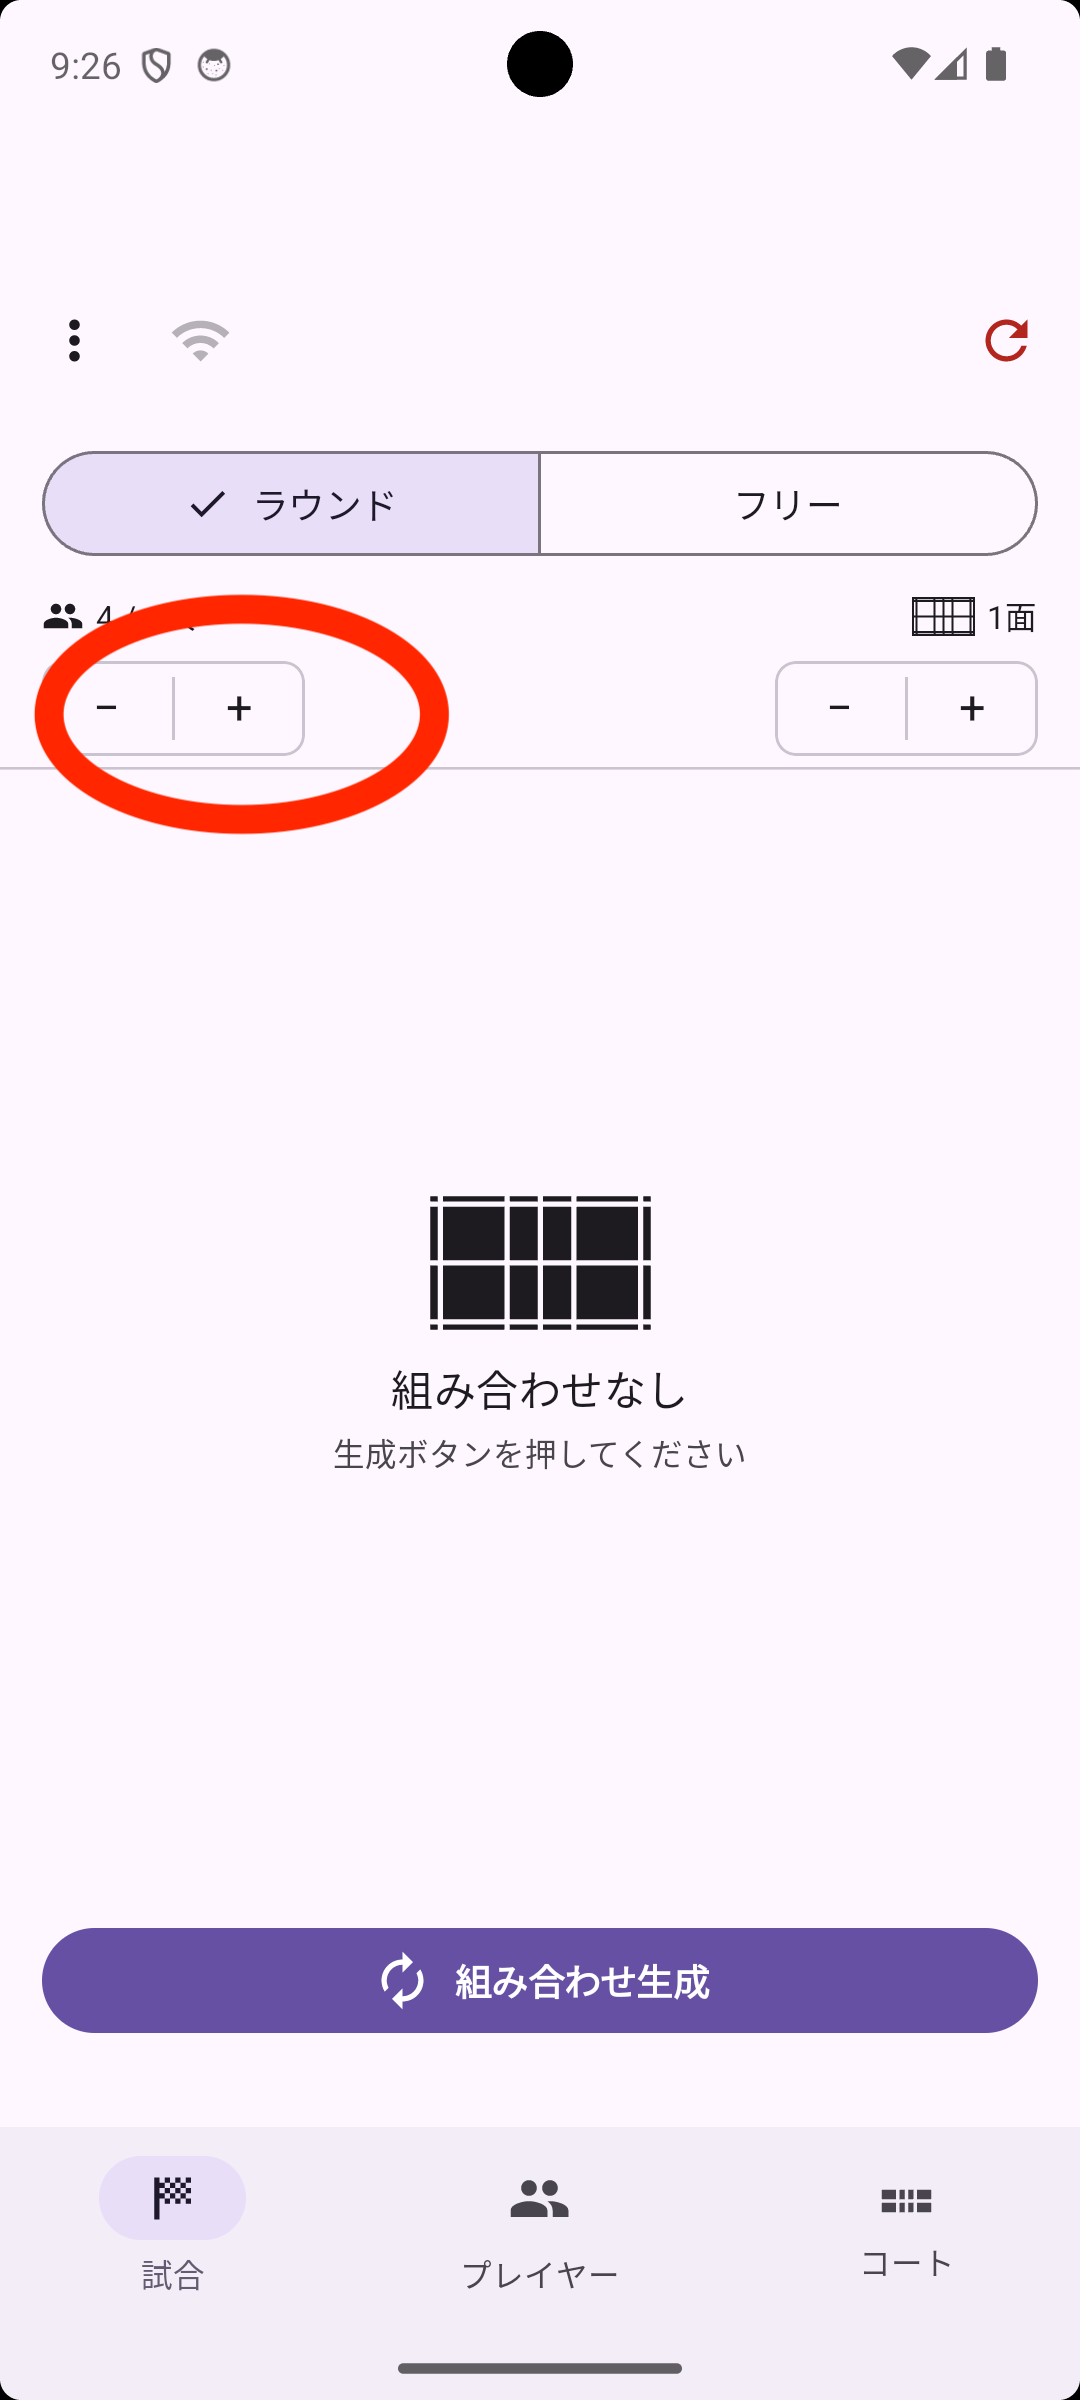
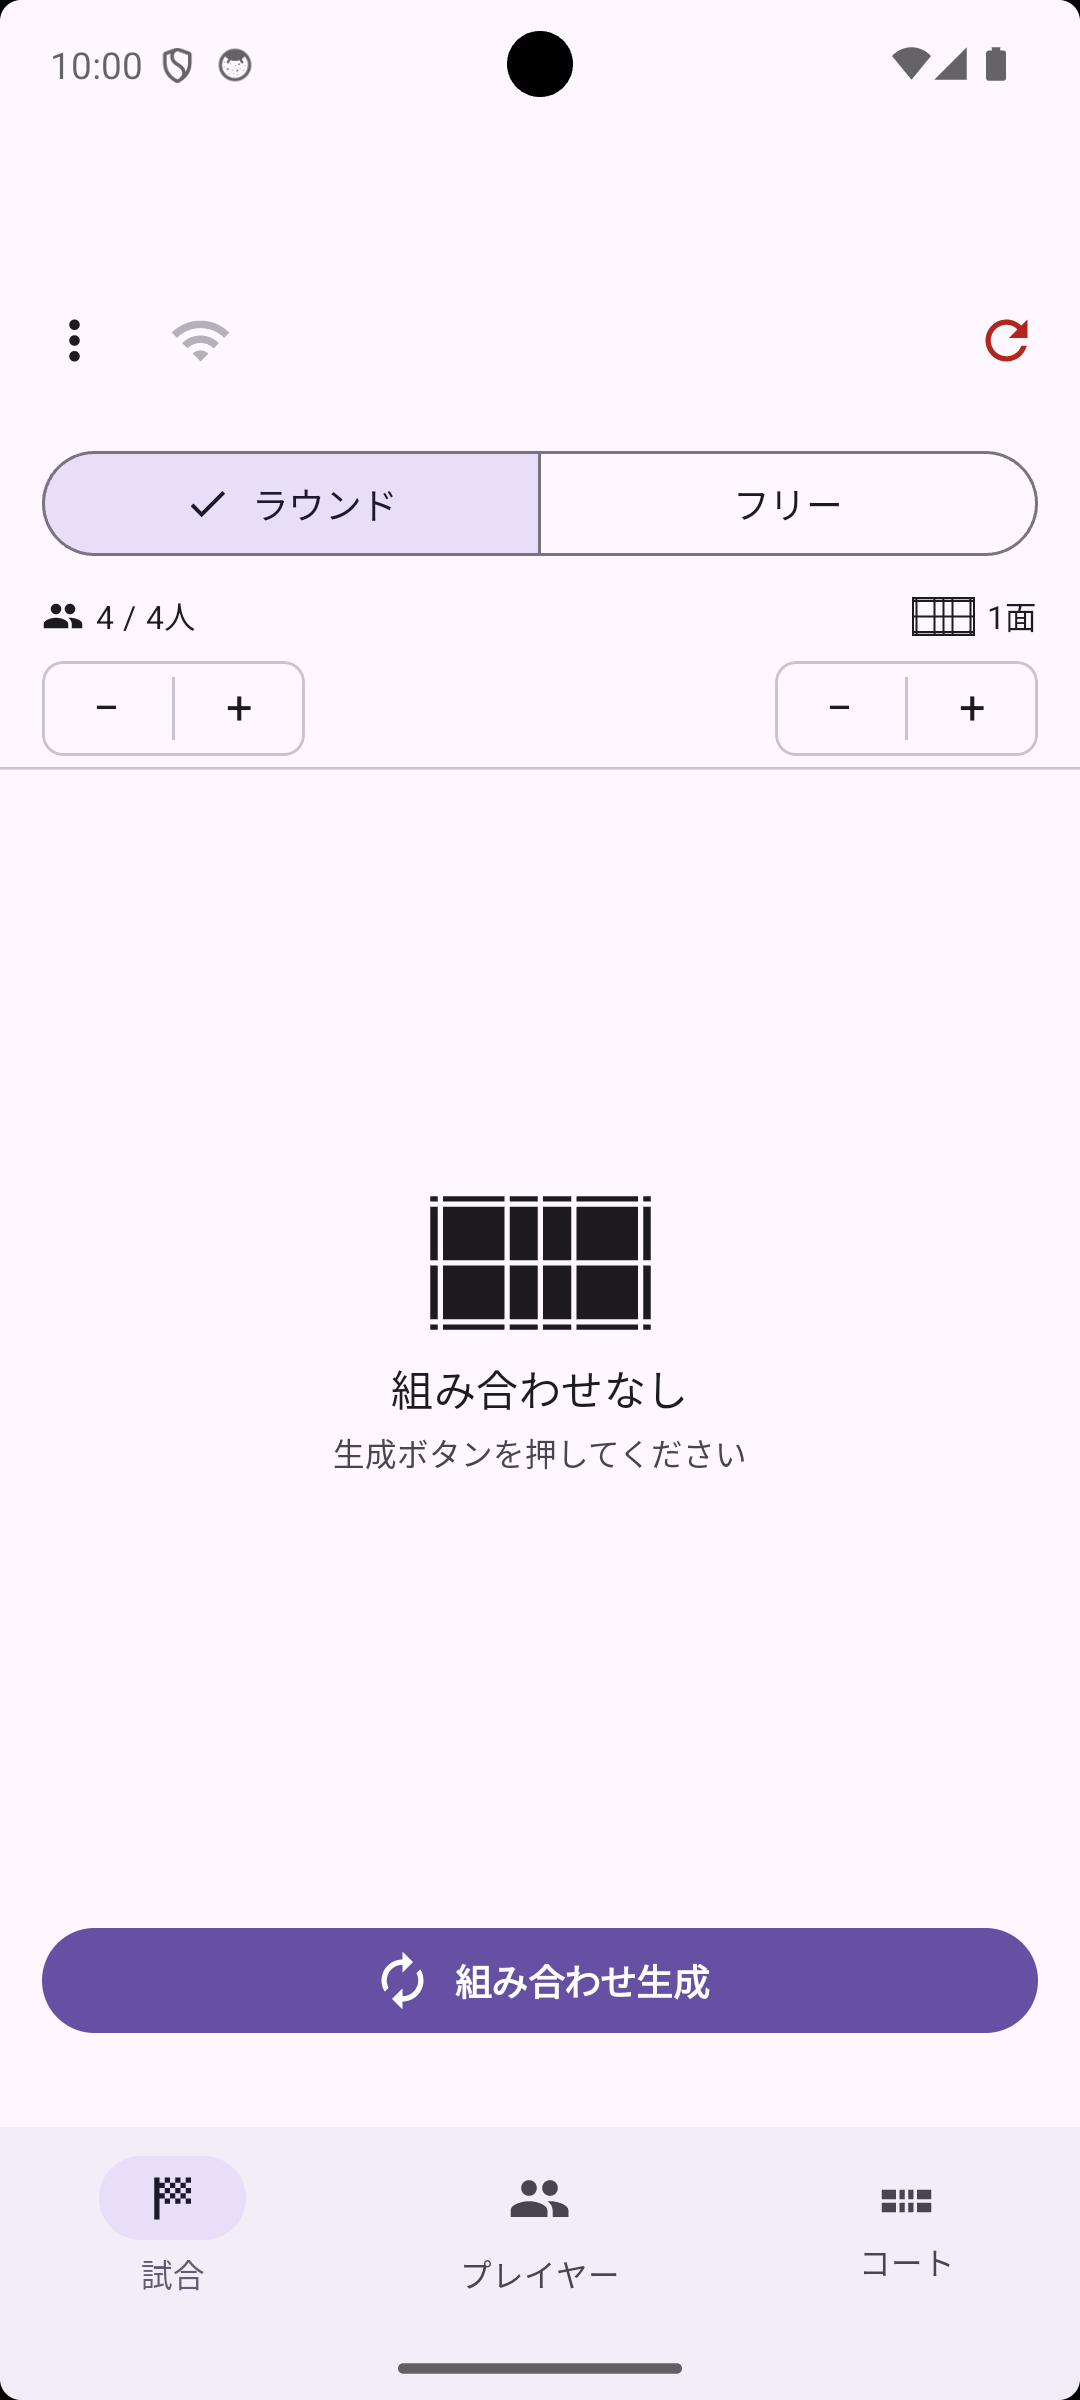
使ってみようページのスクリーンショットの対応関係を修正
前回コミットで画像の割り当てがずれていた（初期状態画像とプレイヤー数設定
画像が入れ違い、組み合わせ生成結果の画像が古いまま）のを修正：
- 1枚目（初期状態）→ 注釈なしのクリーンなスクリーンショットに変更
- プレイヤー数設定 → プレイヤー数の+/-ボタンを赤丸で示した画像に変更
- 組み合わせ生成結果 → 実際に生成されたラウンド1の画面に変更（新規画像）

Changed region(s): [[0.0306, 0.25, 0.4278, 0.375], [0.0611, 0.0, 0.2444, 0.0312]]

diff --git a/getting-started.html b/getting-started.html
@@ -47,7 +47,7 @@
 
 <h2 id="generate">3. 組み合わせを生成する</h2>
 <p><strong>試合</strong> タブで <code>組み合わせ生成</code> ボタンをタップします。プレイヤーが各コートに自動で割り当てられます。</p>
-<div class="ss"><img src="images/game-round-main.png" alt="試合タブ・組み合わせ生成結果"></div>
+<div class="ss"><img src="images/game-combination-add.png" alt="試合タブ・組み合わせ生成結果"></div>
 <p>各行が1つのコートの試合を示しています。左側に付いているバッジはレベルを、右側のスコアは現在のゲーム結果を表します。</p>
 
 <h2 id="next-round">4. 次のラウンドを生成する</h2>
